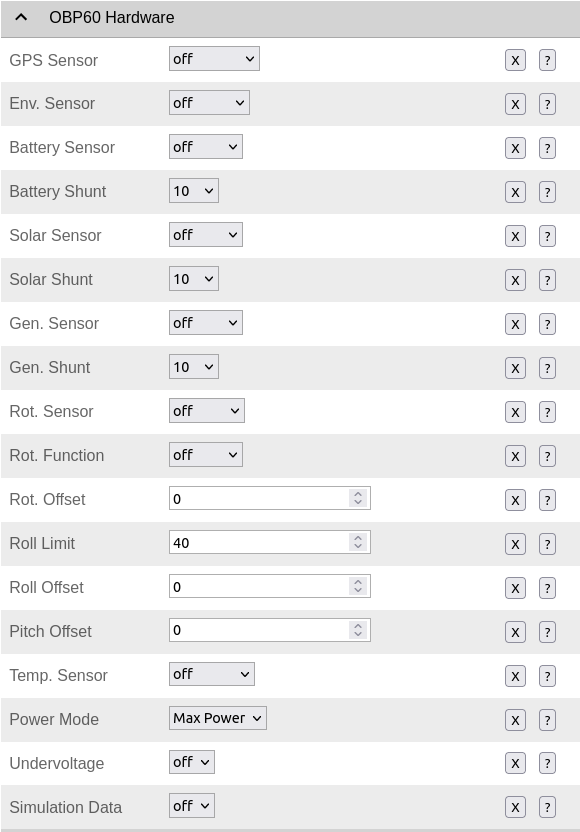
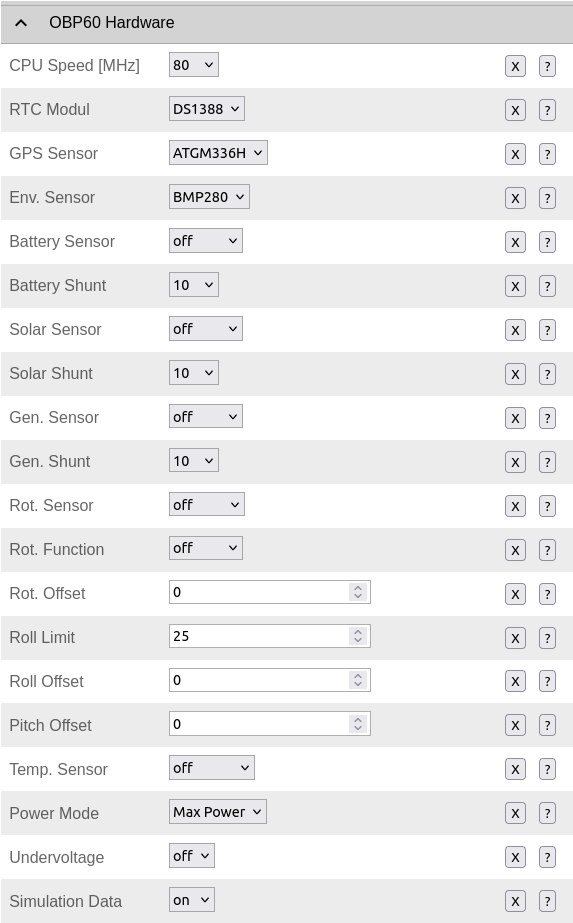
Add CPU speed and power consumption table

Changed region(s): [[0.0, 0.0, 1.0, 1.0], [0.0, 0.5938, 0.178, 0.9375]]

diff --git a/docs/usermanual/configuration.rst b/docs/usermanual/configuration.rst
@@ -463,6 +463,12 @@ Config - OBP Hardware
 
 Unter **Hardware** werden alle Einstellungen bezüglich verbauter Hardware oder externer Zusatz-Hardware des OPB60 vorgenommen. Die Default-Einstellungen entsprechen den Minimal-Einstellungen für ein OBP60-Gerät. Je nach verbauter Hardware können unterschiedliche Sensoren und Funktionen zum Einsatz kommen.
 
+**CPU Speed**
+     * Taktfrequenz der CPU
+     * ``80`` - 80 MHz
+     * ``160`` - 160 MHz
+     * ``240`` - 240 MHz
+
 **RTC Modul**
      * Typ der Echtzeituhr
      * ``off`` - Es wird keine Echtzeituhr benutzt
@@ -566,9 +572,44 @@ Unter **Hardware** werden alle Einstellungen bezüglich verbauter Hardware oder 
     
 **Power Mode**
     * Der **Power Mode** bezieht sich auf die Art der Stromversorgung, die für das OBP60 verwendet wird.
-    * ``Max Power`` - Alle Stromversorgungen sind eingeschaltet. Hierbei ist das Gerät am leistungsfähigsten und es entsteht der maximale Stromverbrauch.
+    * ``Max Power`` - Alle Stromversorgungen sind eingeschaltet. Hierbei ist das Gerät am leistungsfähigsten und es kann der höchste Stromverbrauch entstehen.
     * ``Only 5.0V`` - Es ist nur die zusätzliche Stromversorgung für 5.0 V eingeschaltet.
-    * ``Min Power`` - Es sind nur die Stromversorgungen eingeschaltet, die die Minimal-Funktionen bereitstellen. Hierbei entsteht der geringste Stromverbrauch.
+    * ``Min Power`` - Es sind nur die Stromversorgungen eingeschaltet, die die Minimal-Funktionen bereitstellen. Hierbei entsteht der geringste Stromverbrauch. Die Bussysteme, das GPS, die externe 5V-Stromversorgung, die Hintergrundbeleuchtung und der Buzzer sind ausgeschaltet. Das Display, die Tasten, die RTC und der Umweltsensor BMP280 sind eingeschaltet.
+    
++----------------------+--------------+--------------+
+|Baugruppe             |Max Power [W] |Min Power [W] |
++======================+==============+==============+
+|CPU 240 MHz, WiFi, AP |1.78          |1.30          |
++----------------------+--------------+--------------+
+|CPU 160 MHz, WiFi, AP |1.68          |1.20          |
++----------------------+--------------+--------------+
+|CPU 80 MHz, WiFi, AP  |1.58          |1.13          |
++----------------------+--------------+--------------+
+|CPU 240 MHz, WiFi     |1.16          |0.70          |
++----------------------+--------------+--------------+
+|CPU 160 MHz, WiFi     |1.07          |0.60          |
++----------------------+--------------+--------------+
+|CPU 80 MHz, WiFi      |0.96          |0.53          |
++----------------------+--------------+--------------|
+|Externe 5V-Versorgung |0.83          |-             |
++----------------------+--------------+--------------+
+Tab.: Stromverbrauch OBP60 V2.1
+
+Je nach zugeschalteter Farbe und Leistung der Hintergrundbeleuchtung entsteht ein zusätzlicher Stromverbrauch.
+
++----------------------+--------------+--------------+
+|RGB-LED-Beleuchtung   |LED 100% [W]  |LED 50% [W]   |
++======================+==============+==============+
+|LED rot               |0.24          |0.11          |
++----------------------+--------------+--------------+
+|LED grün              |0.24          |0.11          |
++----------------------+--------------+--------------+
+|LED blau              |0.24          |0.11          |
++----------------------+--------------+--------------+
+|LED weiss             |0.61          |0.32          |
++----------------------+--------------+--------------+
+Tab.: Stromverbrauch der LED-Hintergrundbeleuchtung
+
     
 **Undervoltage**
     * Erkennung einer Unterspannung der Stromversorgung. Wenn eine Unterspannung niedriger als 9 V erkannt wird, kann das OBP60 automatisch deaktiviert werden, um eine Tiefentladung der Bordbatterie vermeiden zu helfen. In kritischen Situationen kann das OBP60 trotz Unterspannung bis 7 V funktionsfähig bleiben, wenn der Unterspannungsschutz deaktiviert ist. Als Default-Wert ist der Unterspannungsschutz aktiviert. Wenn im aktivierten Zustand eine Unterspannung auftritt, wird das OBP60 deaktiviert und in den Tiefschlaf versetzt. Im Display erscheint die Meldung **Undervoltage**. Dieser Zustand kann nur verändert werden, wenn die Versorgungsspannung vollständig ausgeschaltet und wieder eingeschaltet wird.
